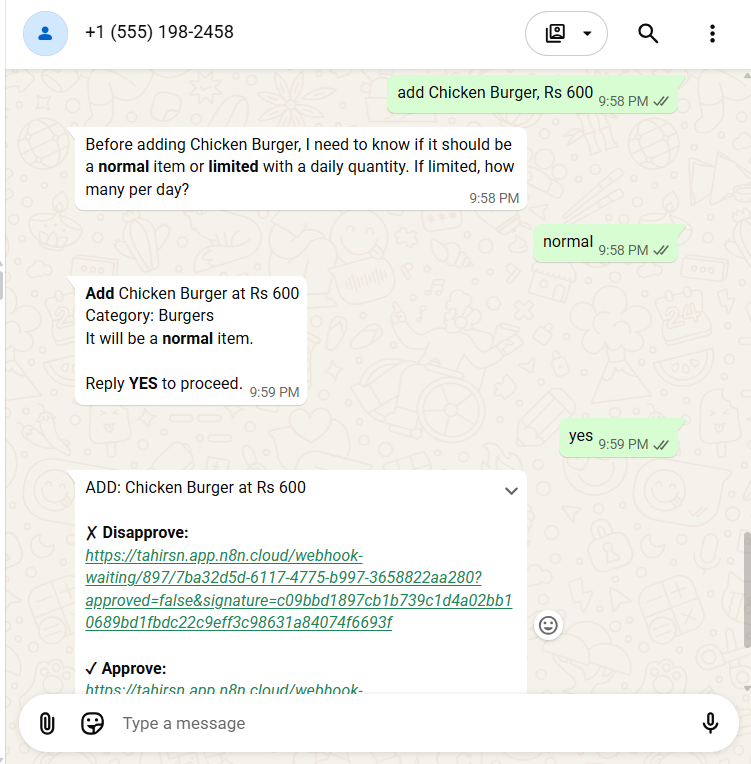
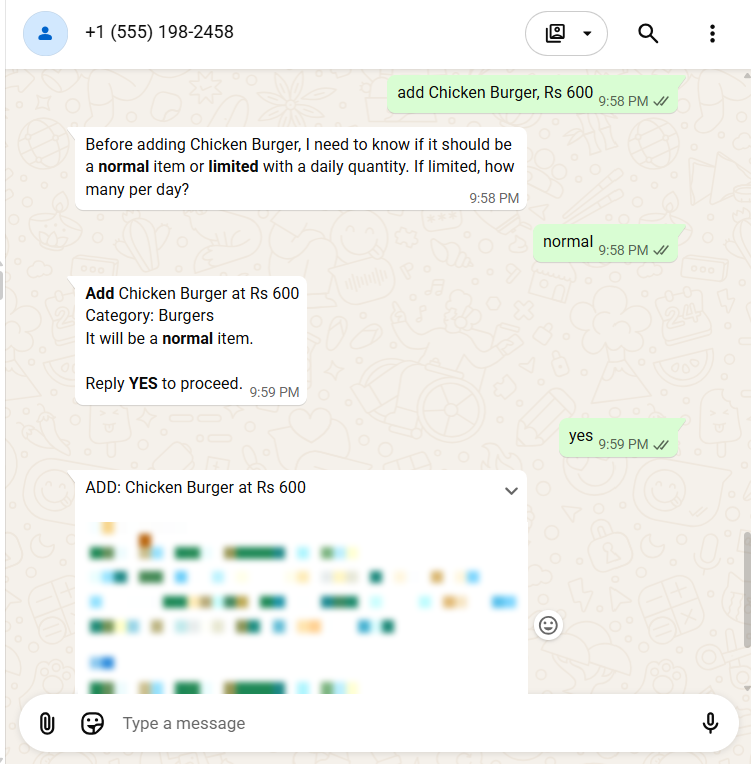
Redact screenshots and add Demo section to README

Changed region(s): [[0.0919, 0.6623, 0.7044, 0.9332]]

diff --git a/README.md b/README.md
@@ -25,6 +25,20 @@ with a double approval. The menu image redraws itself whenever the menu changes.
 - Any menu change triggers a debounced regeneration of a truck-art style menu PNG (no AI image generation: SVG rendered with resvg), uploaded to Supabase Storage.
 - Deals expire automatically (pg_cron). Deal stock follows its items; cancelled orders return stock.
 
+## Demo
+
+| | |
+|---|---|
+| **Menu as text**<br><img src="assets/01_menu_text.png" width="300"> | **Price question**<br><img src="assets/01_b_menu_text.png" width="300"> |
+| **Ambiguous item: the bot asks which one**<br><img src="assets/01_02_menu_text.png" width="300"> | **Ordering a deal** (earlier, larger demo menu)<br><img src="assets/02-deal-order.png" width="300"> |
+| **Order summary before confirming**<br><img src="assets/03-order-summary.png" width="300"> | **Confirmation and status updates**<br><img src="assets/confirmation-and-status-update-notification.png" width="300"> |
+| **Owner approves a menu change in WhatsApp**<br><img src="assets/04-owner-approval.png" width="300"> | **Auto-generated menu image**<br><img src="assets/05-menu-image.png" width="300"> |
+| **Owner email for a new order**<br><img src="assets/06-owner-email.png" width="300"> | **Owner updates order status (form)**<br><img src="assets/07-status-update.png" width="300"> |
+
+**n8n canvas (main agent workflow)**
+
+![n8n canvas](assets/08-n8n-canvas.png)
+
 ## Architecture
 
 ![Architecture](assets/architecture.png)
